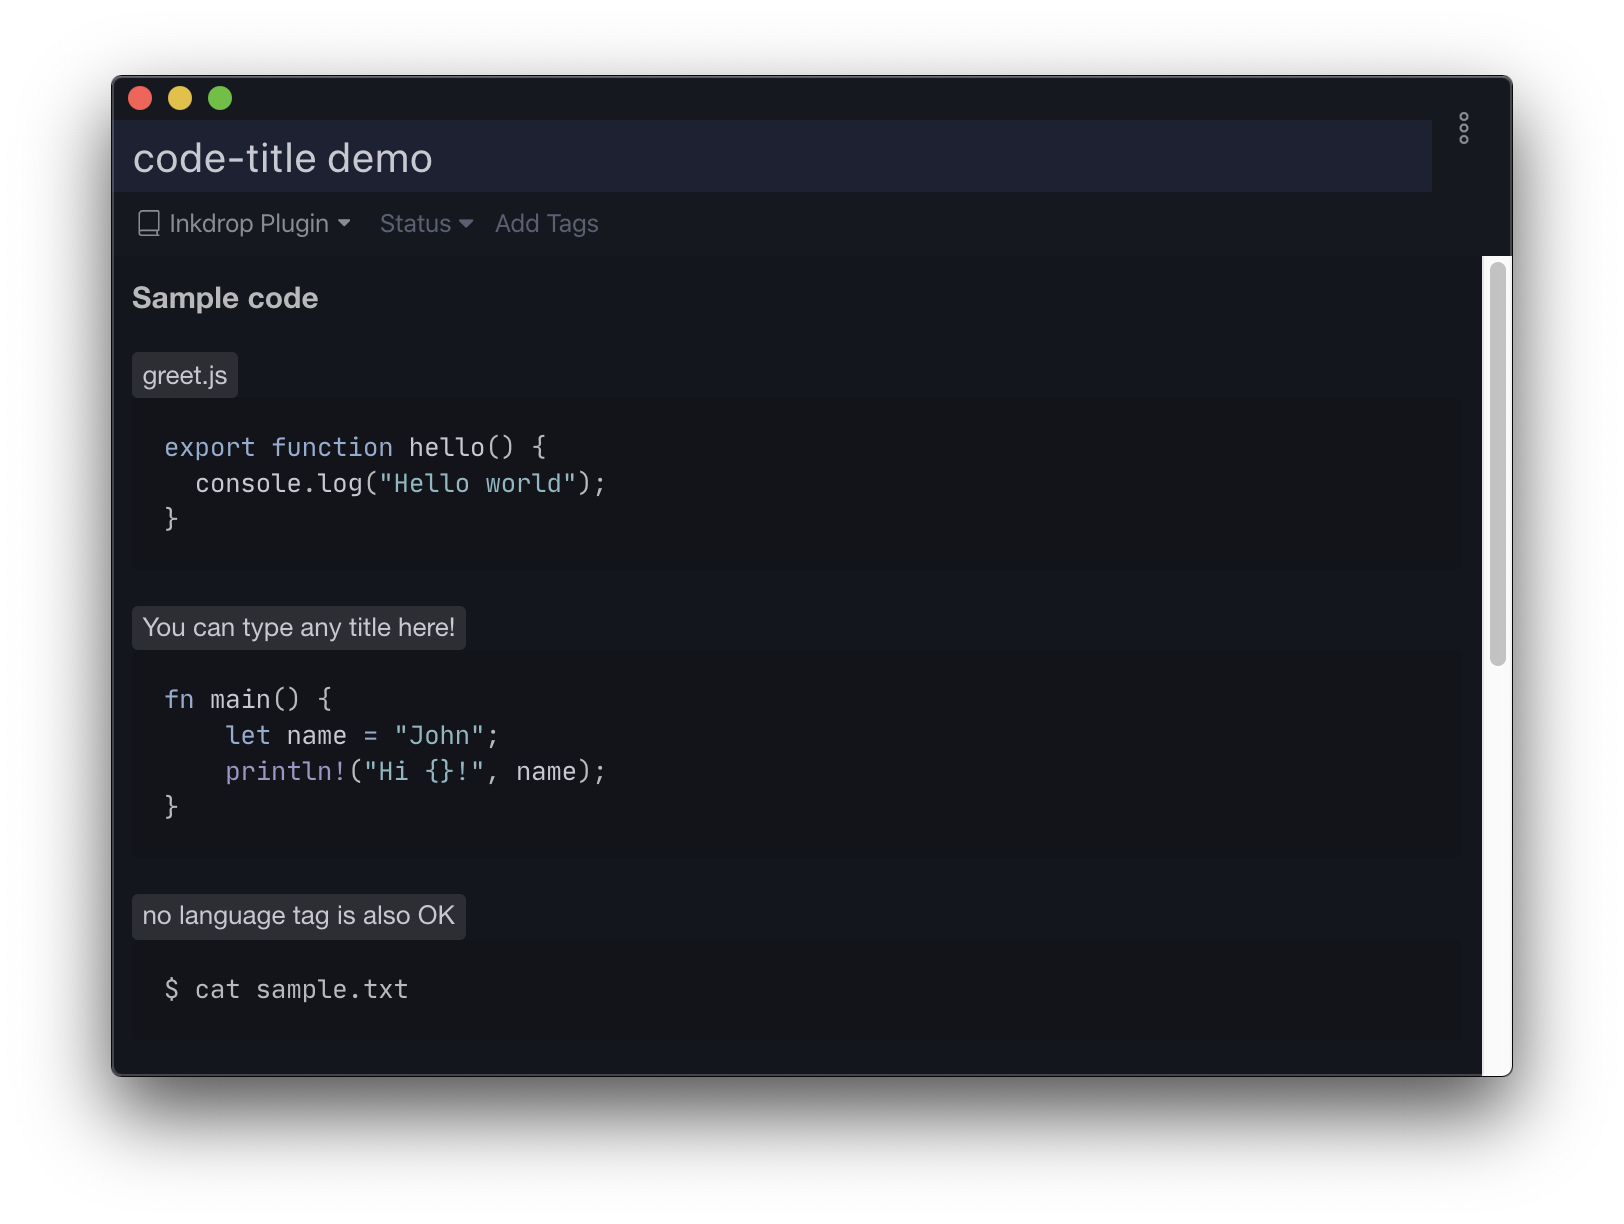
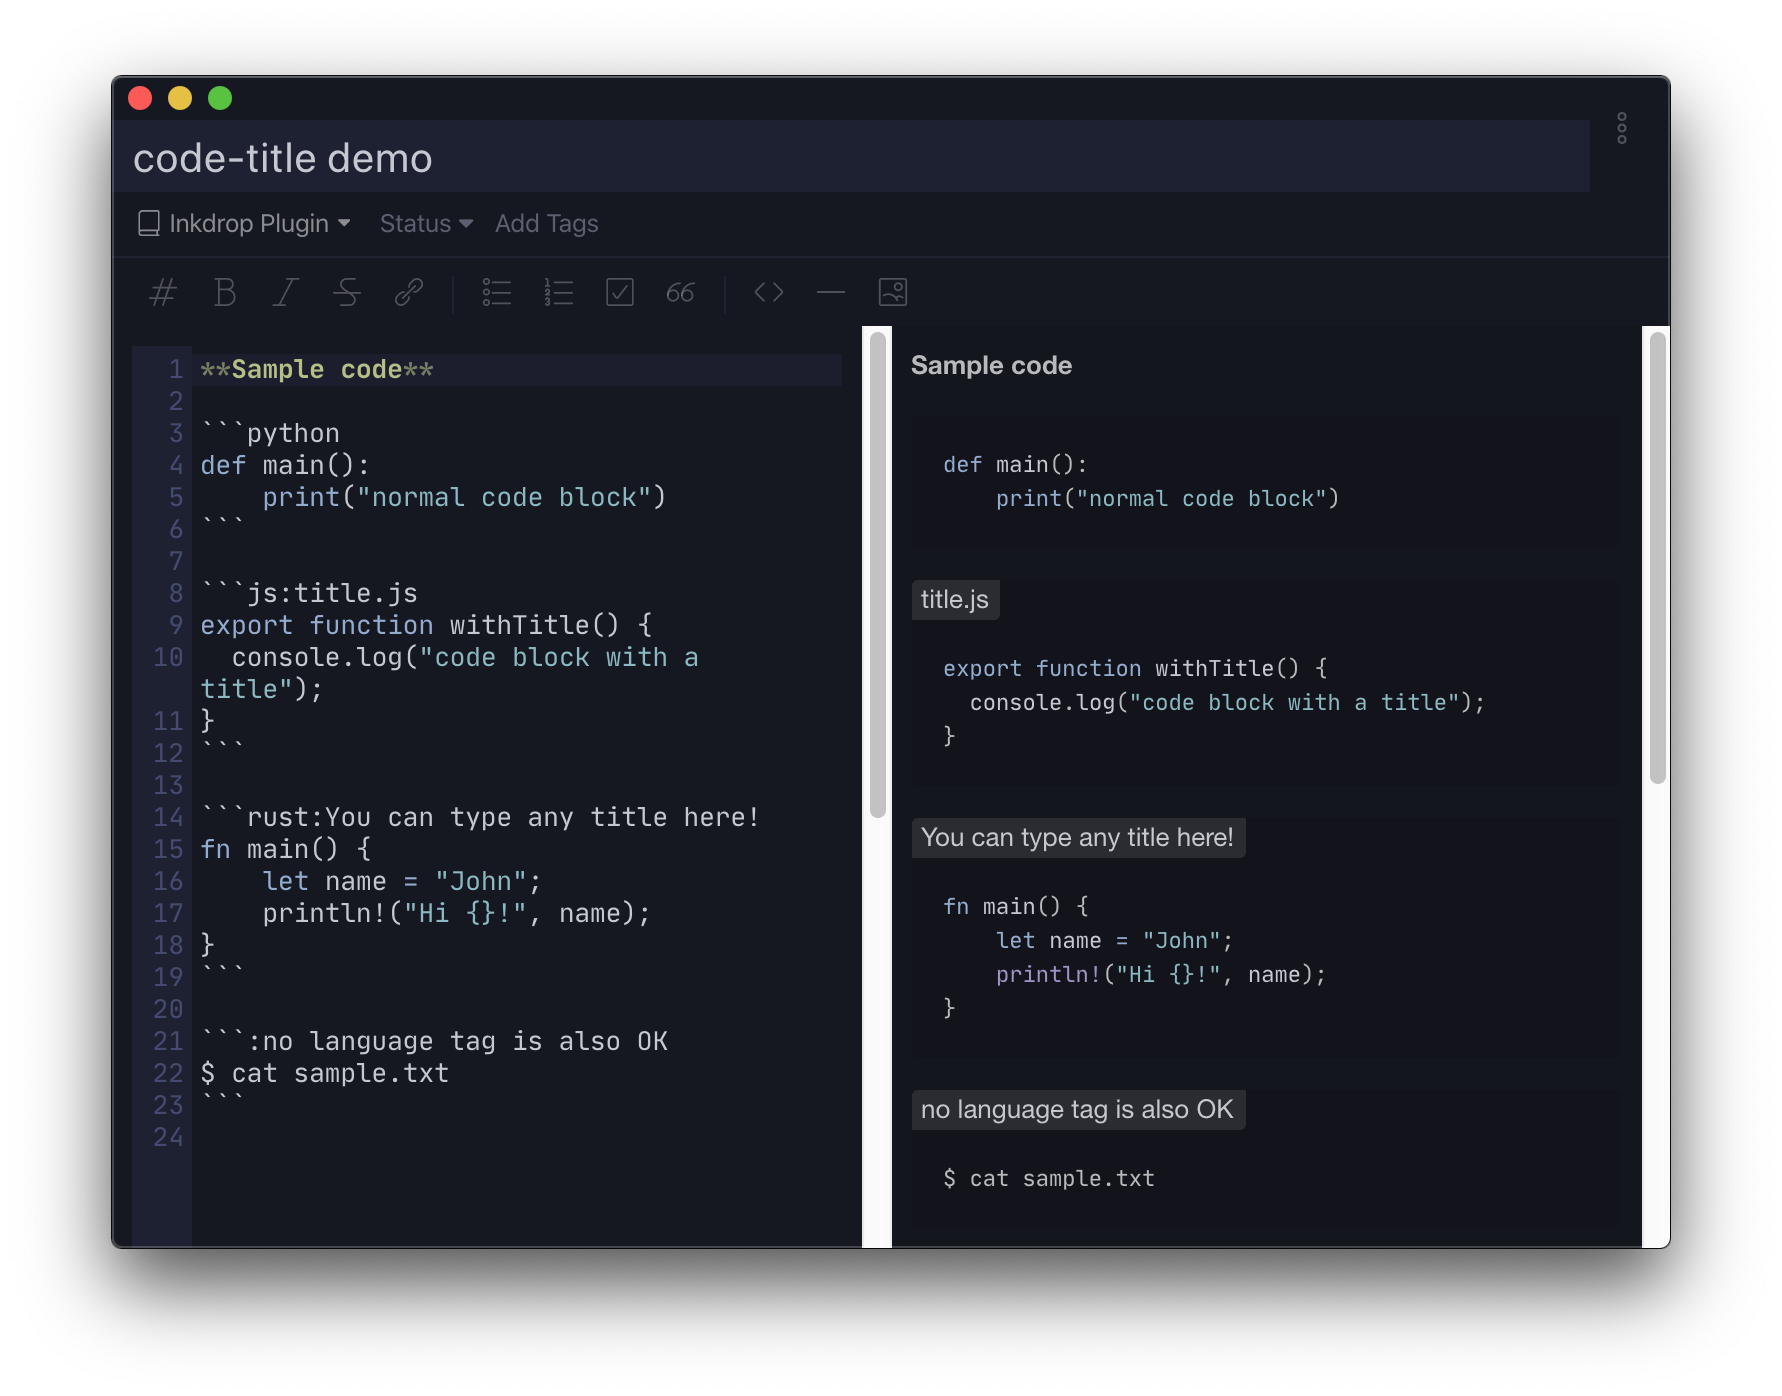
update README

diff --git a/README.md b/README.md
@@ -1,8 +1,8 @@
-# Code title plugin for Inkdrop
+# Code Title
 ![Inkdrop Plugin Version](https://inkdrop-plugin-badge.vercel.app/api/version/code-title&style=flat)
 ![Inkdrop Plugin Downloads](https://inkdrop-plugin-badge.vercel.app/api/downloads/code-title&style=flat)
 
-Add a title to a fenced code block.
+Add a title to a fenced code block
 
 ## Install
 
@@ -26,7 +26,18 @@ Type a colon(`:`) and a title after a `language` tag in a fenced code block as f
 **Iceberg**
 ![code-title iceberg image](./img/iceberg.png)
 
+### Title Position
+You can choose the position of titles in the plugin settings.
+
+**Inside the code block (default)**
+![inside](./img/inside.png)
+
+**On top of the code block**
+![top](./img/top.png)
+
 ## CHANGELOG
+- 2.0.0
+  - able to move a title in a code block
 
 - 1.1.0
   - improve color contrast
